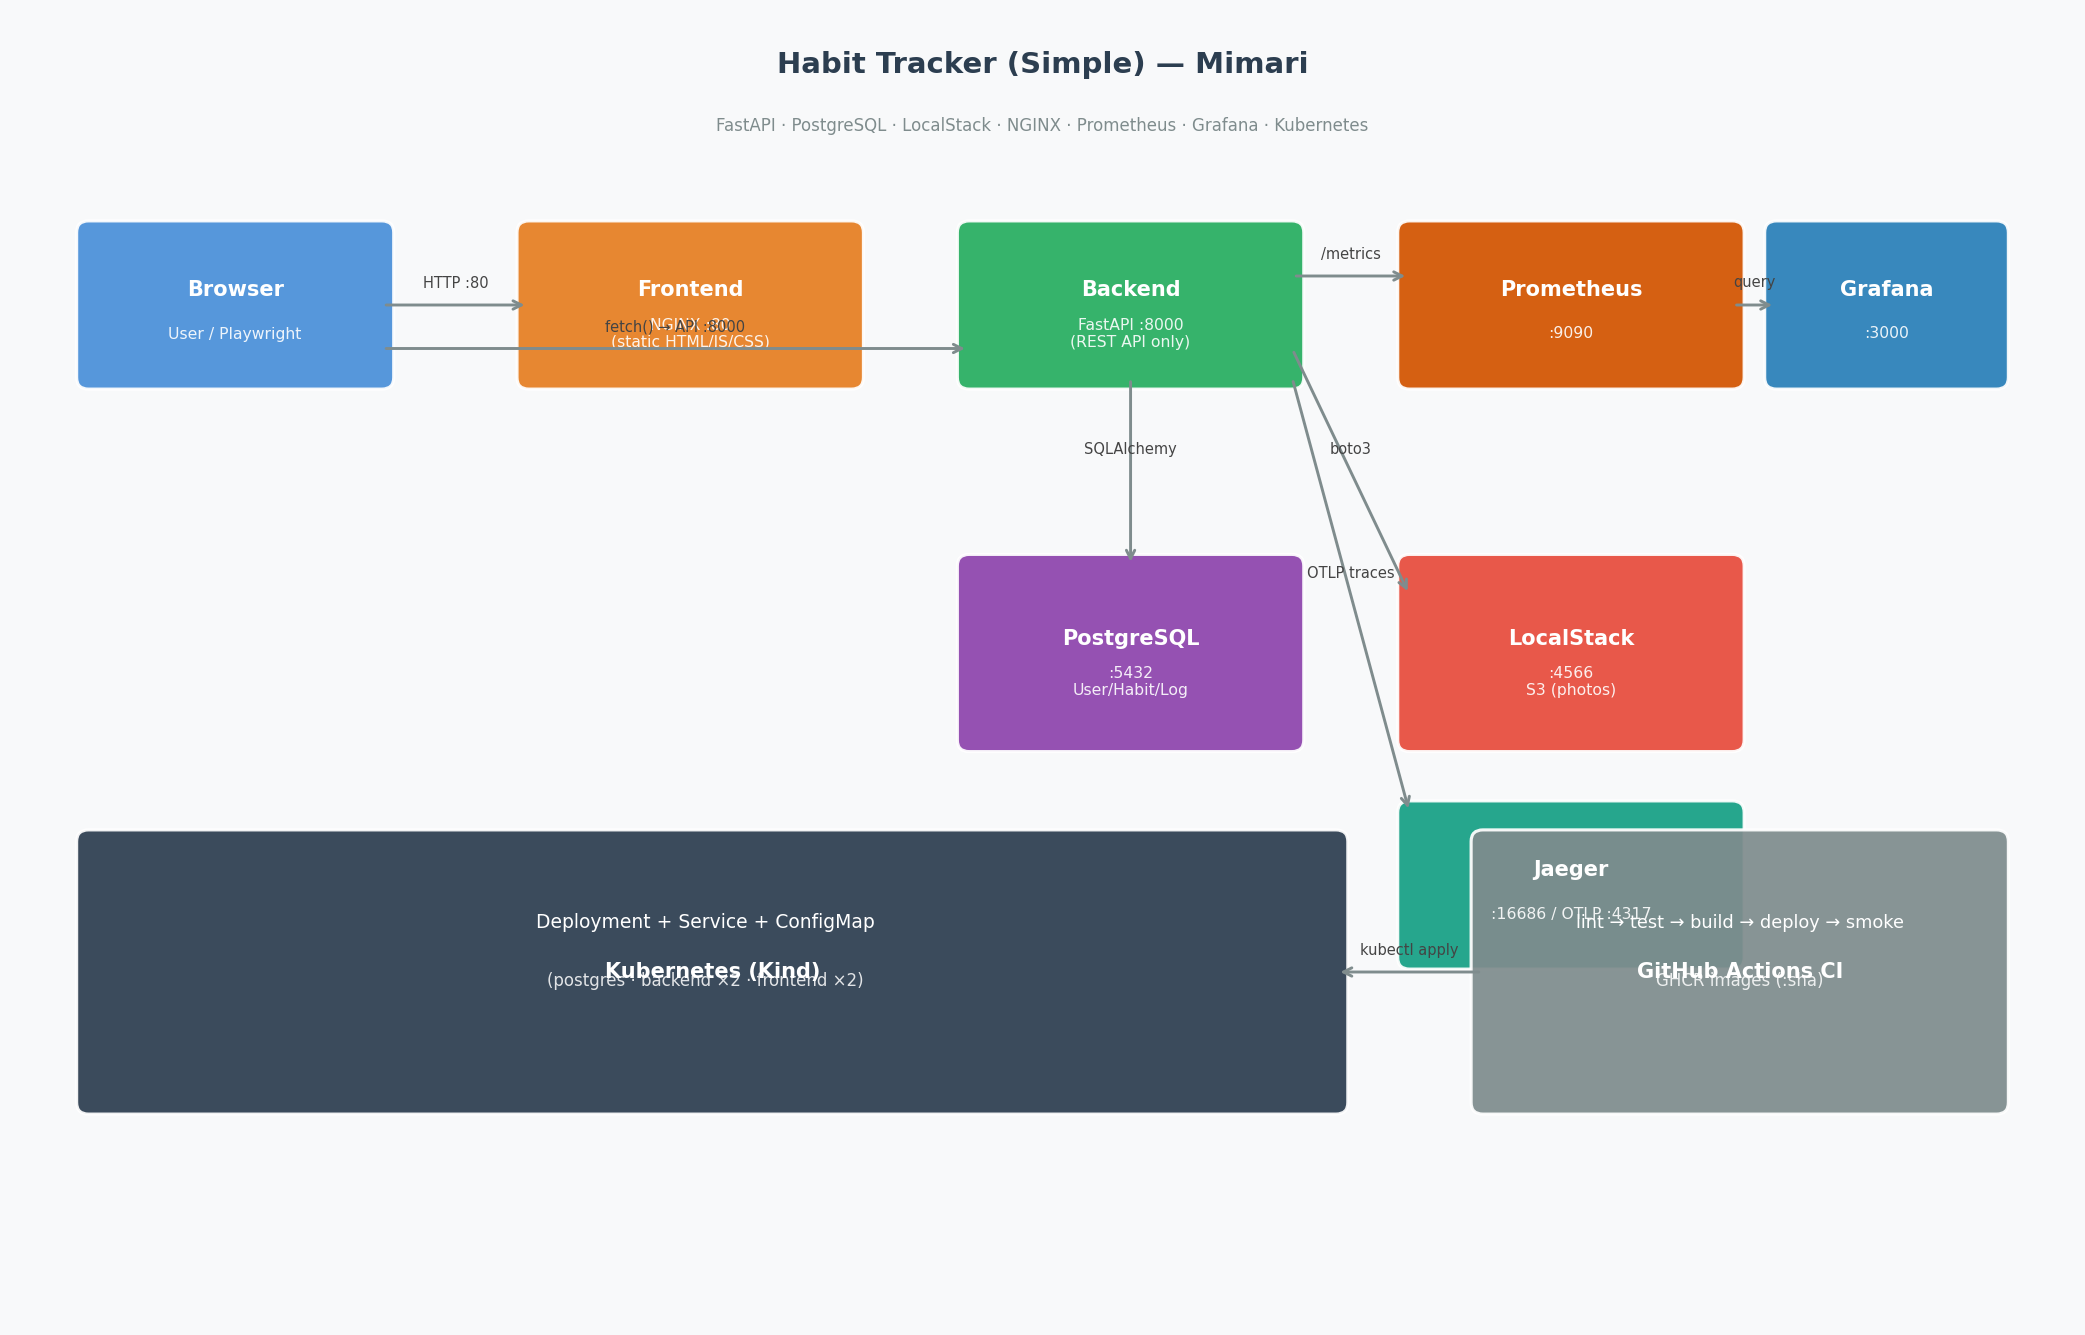
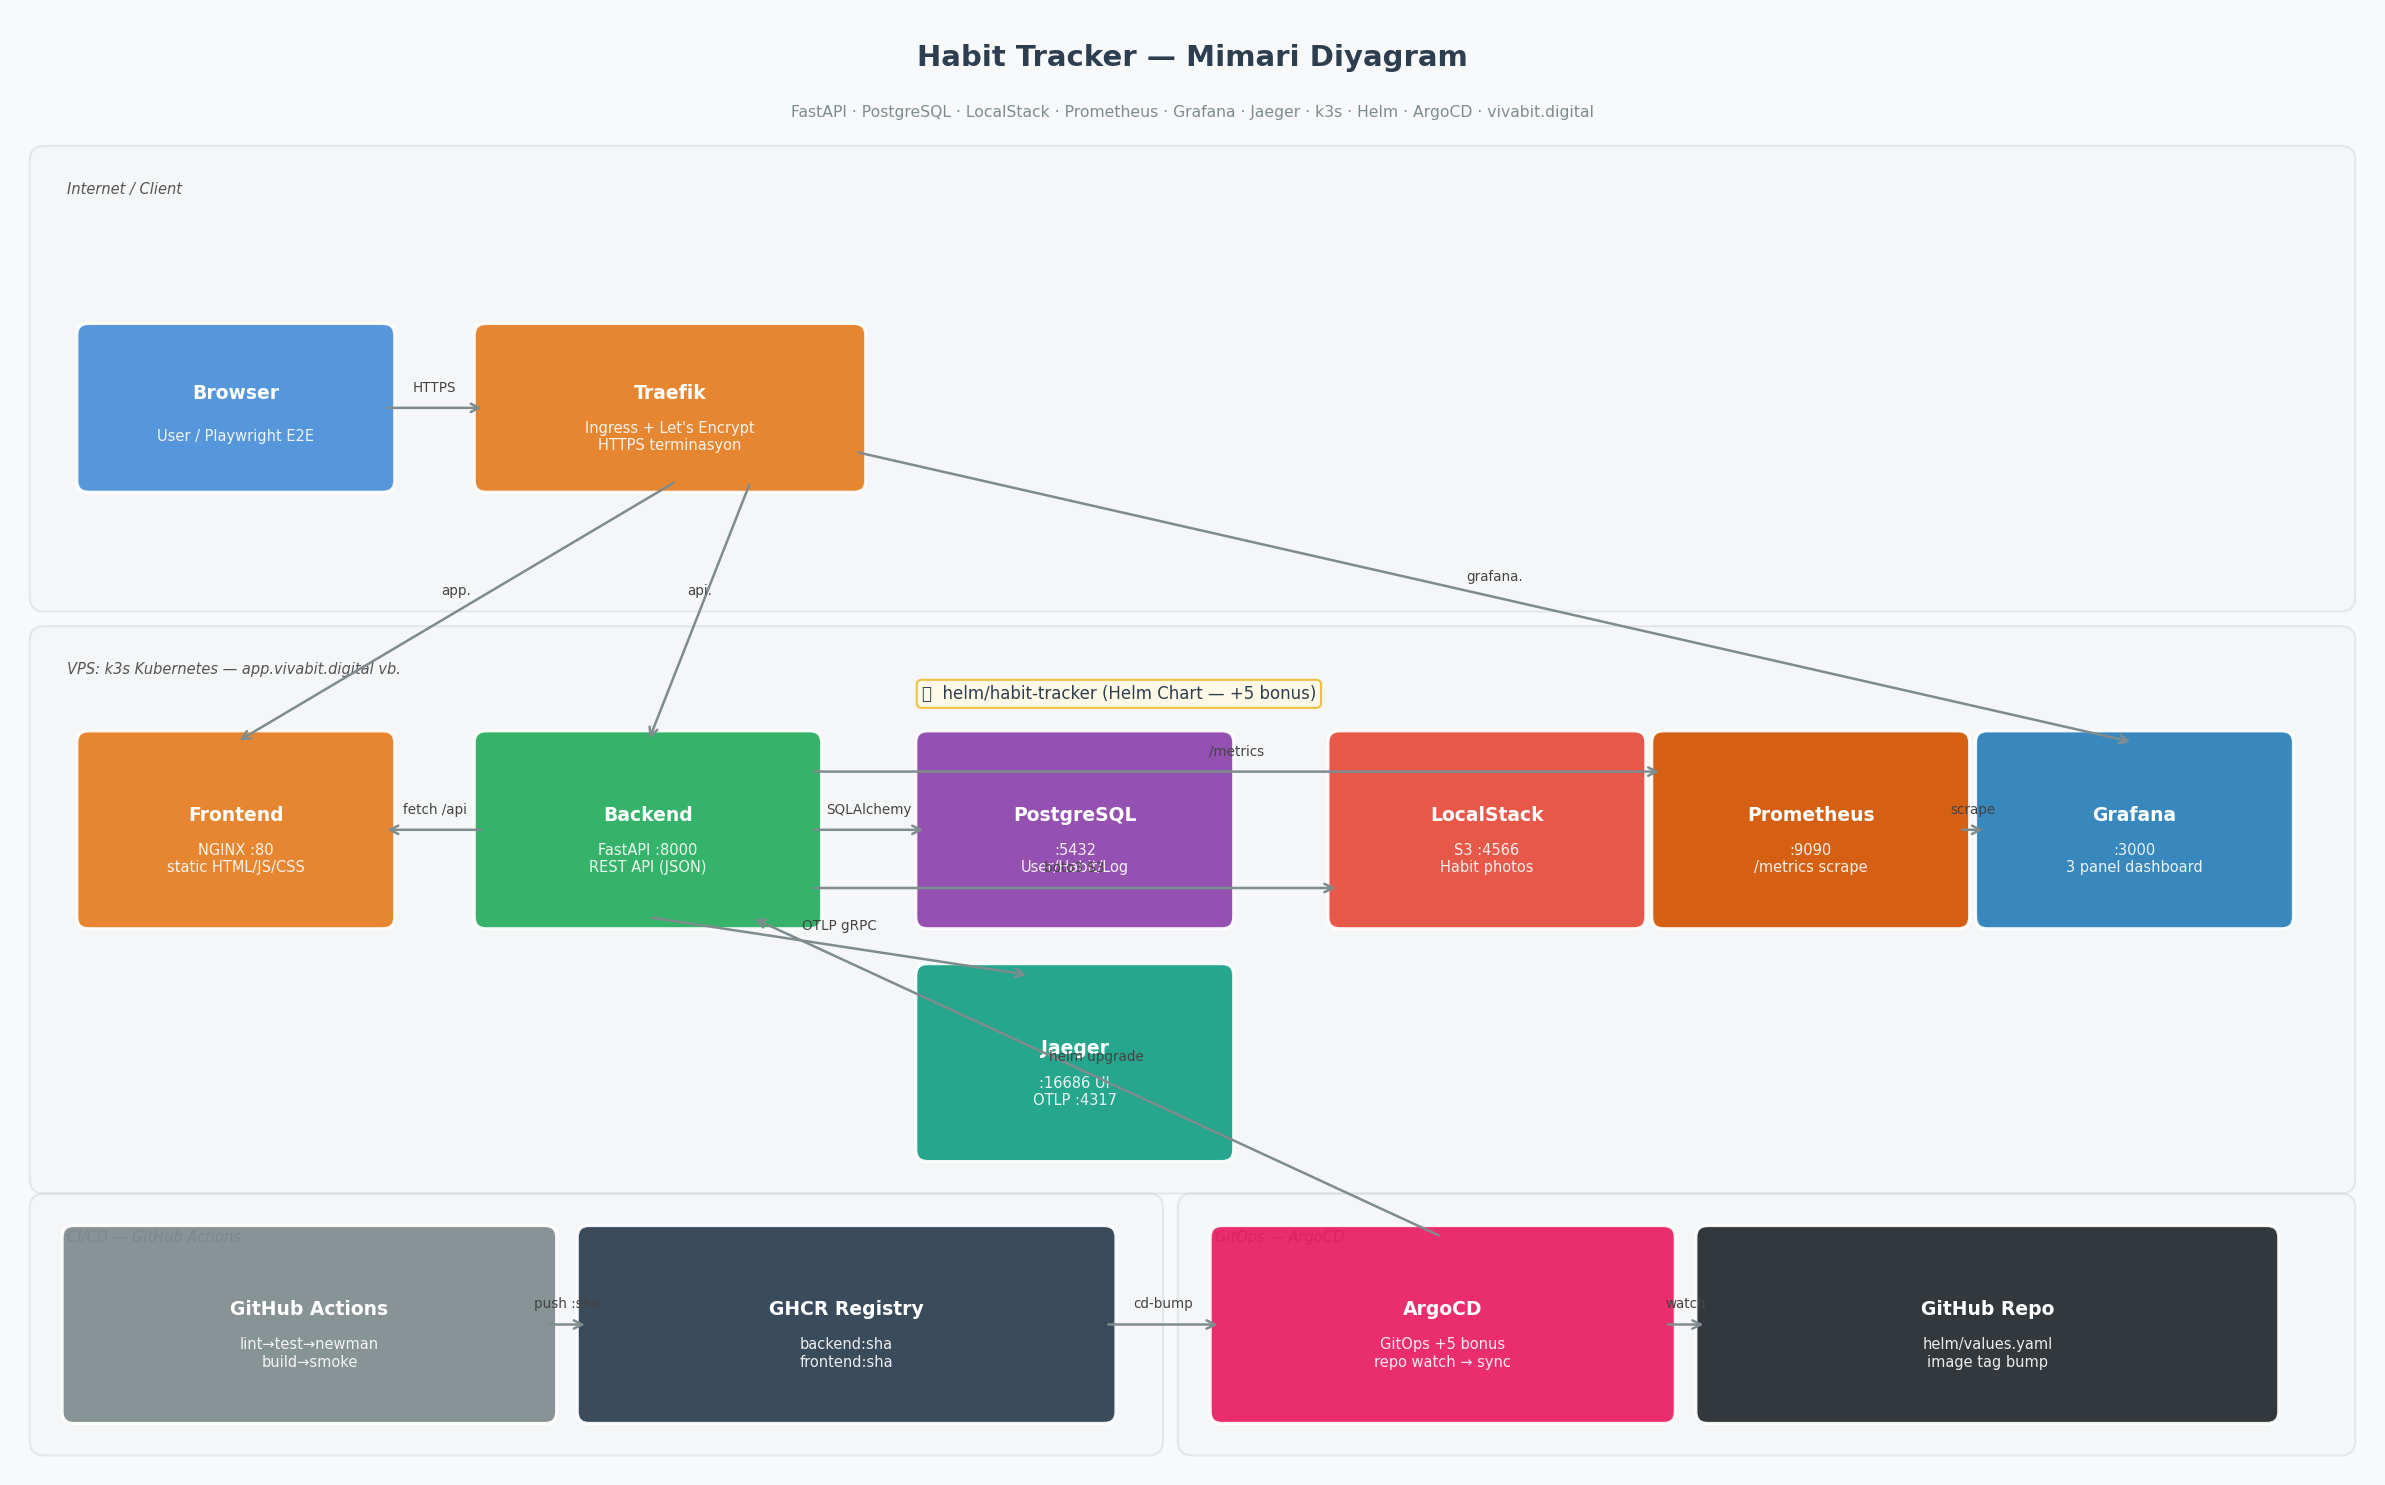
docs: update architecture.png and final-report.pdf with Helm/ArgoCD/vivabit.digital [skip ci]

diff --git a/docs/generate_architecture.py b/docs/generate_architecture.py
@@ -1,4 +1,4 @@
-"""docs/architecture.png üretir — sade mimari diyagramı."""
+"""docs/architecture.png üretir — güncel mimari (Helm + ArgoCD + VPS)."""
 import os
 import matplotlib
 matplotlib.use('Agg')
@@ -15,83 +15,107 @@ def box(ax, x, y, w, h, label, sub='', color='#3498DB'):
     cx, cy = x + w / 2, y + h / 2
     if sub:
         ax.text(cx, cy + 0.10, label, ha='center', va='center',
-                fontsize=10, fontweight='bold', color='white', zorder=4)
+                fontsize=9, fontweight='bold', color='white', zorder=4)
         ax.text(cx, cy - 0.20, sub, ha='center', va='center',
-                fontsize=7.5, color='white', alpha=0.9, zorder=4)
+                fontsize=7, color='white', alpha=0.9, zorder=4)
     else:
         ax.text(cx, cy, label, ha='center', va='center',
-                fontsize=10, fontweight='bold', color='white', zorder=4)
+                fontsize=9, fontweight='bold', color='white', zorder=4)
 
 
 def arrow(ax, x1, y1, x2, y2, label=''):
     ax.annotate('', xy=(x2, y2), xytext=(x1, y1),
-                arrowprops=dict(arrowstyle='->', color='#7F8C8D', lw=1.4),
+                arrowprops=dict(arrowstyle='->', color='#7F8C8D', lw=1.2),
                 zorder=5)
     if label:
-        ax.text((x1 + x2) / 2, (y1 + y2) / 2 + 0.10, label,
-                ha='center', va='bottom', fontsize=7, color='#444', zorder=6)
+        ax.text((x1 + x2) / 2, (y1 + y2) / 2 + 0.09, label,
+                ha='center', va='bottom', fontsize=6.5, color='#444', zorder=6)
 
 
-fig, ax = plt.subplots(figsize=(14, 9))
-ax.set_xlim(0, 14)
-ax.set_ylim(0, 9)
+def section(ax, x, y, w, h, label, color='#ECF0F1'):
+    rect = FancyBboxPatch((x, y), w, h,
+                          boxstyle="round,pad=0.1",
+                          facecolor=color, edgecolor='#BDC3C7',
+                          linewidth=1, alpha=0.3, zorder=1)
+    ax.add_patch(rect)
+    ax.text(x + 0.15, y + h - 0.15, label, ha='left', va='top',
+            fontsize=7, color='#555', style='italic', zorder=2)
+
+
+fig, ax = plt.subplots(figsize=(16, 10))
+ax.set_xlim(0, 16)
+ax.set_ylim(0, 10)
 ax.axis('off')
 ax.set_facecolor('#f8f9fa')
 fig.patch.set_facecolor('#f8f9fa')
 
-ax.text(7, 8.6, 'Habit Tracker (Simple) — Mimari',
+# Title
+ax.text(8, 9.65, 'Habit Tracker — Mimari Diyagram',
         ha='center', fontsize=14, fontweight='bold', color='#2C3E50')
-ax.text(7, 8.2, 'FastAPI · PostgreSQL · LocalStack · NGINX · Prometheus · Grafana · Kubernetes',
-        ha='center', fontsize=8, color='#7F8C8D')
+ax.text(8, 9.3, 'FastAPI · PostgreSQL · LocalStack · Prometheus · Grafana · Jaeger · k3s · Helm · ArgoCD · vivabit.digital',
+        ha='center', fontsize=7.5, color='#7F8C8D')
 
-# Browser
-box(ax, 0.5, 6.5, 2.0, 1.0, 'Browser', 'User / Playwright', '#4A90D9')
+# ── Sections ──────────────────────────────────────────────────────
+section(ax, 0.2, 6.0, 15.6, 3.0, 'Internet / Client')
+section(ax, 0.2, 2.0, 15.6, 3.7, 'VPS: k3s Kubernetes — app.vivabit.digital vb.')
+section(ax, 0.2, 0.2, 7.5, 1.6, 'CI/CD — GitHub Actions')
+section(ax, 8.0, 0.2, 7.8, 1.6, 'GitOps — ArgoCD')
 
-# Frontend (NGINX)
-box(ax, 3.5, 6.5, 2.2, 1.0, 'Frontend', 'NGINX :80\n(static HTML/JS/CSS)', '#E67E22')
+# ── Internet layer ────────────────────────────────────────────────
+box(ax, 0.5, 6.8, 2.0, 1.0, 'Browser', 'User / Playwright E2E', '#4A90D9')
+box(ax, 3.2, 6.8, 2.5, 1.0, 'Traefik', 'Ingress + Let\'s Encrypt\nHTTPS terminasyon', '#E67E22')
 
-# Backend (FastAPI)
-box(ax, 6.5, 6.5, 2.2, 1.0, 'Backend', 'FastAPI :8000\n(REST API only)', '#27AE60')
+# ── K8s layer ─────────────────────────────────────────────────────
+box(ax, 0.5, 3.8, 2.0, 1.2, 'Frontend', 'NGINX :80\nstatic HTML/JS/CSS', '#E67E22')
+box(ax, 3.2, 3.8, 2.2, 1.2, 'Backend', 'FastAPI :8000\nREST API (JSON)', '#27AE60')
+box(ax, 6.2, 3.8, 2.0, 1.2, 'PostgreSQL', ':5432\nUser/Habit/Log', '#8E44AD')
+box(ax, 9.0, 3.8, 2.0, 1.2, 'LocalStack', 'S3 :4566\nHabit photos', '#E74C3C')
+box(ax, 11.2, 3.8, 2.0, 1.2, 'Prometheus', ':9090\n/metrics scrape', '#D35400')
+box(ax, 13.4, 3.8, 2.0, 1.2, 'Grafana', ':3000\n3 panel dashboard', '#2980B9')
+box(ax, 6.2, 2.2, 2.0, 1.2, 'Jaeger', ':16686 UI\nOTLP :4317', '#16A085')
 
-# Postgres
-box(ax, 6.5, 4.0, 2.2, 1.2, 'PostgreSQL', ':5432\nUser/Habit/Log', '#8E44AD')
+# Helm chart label
+ax.text(7.5, 5.3, '⎈  helm/habit-tracker (Helm Chart — +5 bonus)',
+        ha='center', fontsize=8, color='#2C3E50',
+        bbox=dict(boxstyle='round,pad=0.3', facecolor='#FEF9E7', edgecolor='#F0C040'))
 
-# LocalStack
-box(ax, 9.5, 4.0, 2.2, 1.2, 'LocalStack', ':4566\nS3 (photos)', '#E74C3C')
+# ── CI/CD ─────────────────────────────────────────────────────────
+box(ax, 0.4, 0.4, 3.2, 1.2, 'GitHub Actions', 'lint→test→newman\nbuild→smoke', '#7F8C8D')
+box(ax, 3.9, 0.4, 3.5, 1.2, 'GHCR Registry', 'backend:sha\nfrontend:sha', '#2C3E50')
 
-# Prometheus
-box(ax, 9.5, 6.5, 2.2, 1.0, 'Prometheus', ':9090', '#D35400')
+# ── ArgoCD ───────────────────────────────────────────────────────
+box(ax, 8.2, 0.4, 3.0, 1.2, 'ArgoCD', 'GitOps +5 bonus\nrepo watch → sync', '#E91E63')
+box(ax, 11.5, 0.4, 3.8, 1.2, 'GitHub Repo', 'helm/values.yaml\nimage tag bump', '#24292E')
 
-# Grafana
-box(ax, 12.0, 6.5, 1.5, 1.0, 'Grafana', ':3000', '#2980B9')
-
-# Jaeger
-box(ax, 9.5, 2.5, 2.2, 1.0, 'Jaeger', ':16686 / OTLP :4317', '#16A085')
-
-# K8s box
-box(ax, 0.5, 1.5, 8.5, 1.8, 'Kubernetes (Kind)', '', '#2C3E50')
-ax.text(4.7, 2.7, 'Deployment + Service + ConfigMap',
-        ha='center', fontsize=9, color='white')
-ax.text(4.7, 2.3, '(postgres · backend ×2 · frontend ×2)',
-        ha='center', fontsize=8, color='white', alpha=0.85)
-
-# CI/CD
-box(ax, 10.0, 1.5, 3.5, 1.8, 'GitHub Actions CI', '', '#7F8C8D')
-ax.text(11.75, 2.7, 'lint → test → build → deploy → smoke',
-        ha='center', fontsize=8.5, color='white')
-ax.text(11.75, 2.3, 'GHCR images (:sha)', ha='center', fontsize=8, color='white', alpha=0.85)
-
-# Arrows
-arrow(ax, 2.5, 7.0, 3.5, 7.0, 'HTTP :80')
-arrow(ax, 2.5, 6.7, 6.5, 6.7, 'fetch() → API :8000')
-arrow(ax, 7.6, 6.5, 7.6, 5.2, 'SQLAlchemy')
-arrow(ax, 8.7, 6.7, 9.5, 5.0, 'boto3')
-arrow(ax, 8.7, 7.2, 9.5, 7.2, '/metrics')
-arrow(ax, 11.7, 7.0, 12.0, 7.0, 'query')
-arrow(ax, 8.7, 6.5, 9.5, 3.5, 'OTLP traces')
-
-# CI → K8s
-arrow(ax, 10.0, 2.4, 9.0, 2.4, 'kubectl apply')
+# ── Arrows ────────────────────────────────────────────────────────
+# Browser → Traefik
+arrow(ax, 2.5, 7.3, 3.2, 7.3, 'HTTPS')
+# Traefik → Frontend
+arrow(ax, 4.5, 6.8, 1.5, 5.0, 'app.')
+# Traefik → Backend
+arrow(ax, 5.0, 6.8, 4.3, 5.0, 'api.')
+# Traefik → Grafana
+arrow(ax, 5.7, 7.0, 14.4, 5.0, 'grafana.')
+# Frontend → Backend
+arrow(ax, 3.2, 4.4, 2.5, 4.4, 'fetch /api')
+# Backend → Postgres
+arrow(ax, 5.4, 4.4, 6.2, 4.4, 'SQLAlchemy')
+# Backend → LocalStack
+arrow(ax, 5.4, 4.0, 9.0, 4.0, 'boto3 S3')
+# Backend → Prometheus
+arrow(ax, 5.4, 4.8, 11.2, 4.8, '/metrics')
+# Backend → Jaeger
+arrow(ax, 4.3, 3.8, 6.9, 3.4, 'OTLP gRPC')
+# Prometheus → Grafana
+arrow(ax, 13.2, 4.4, 13.4, 4.4, 'scrape')
+# CI → GHCR
+arrow(ax, 3.6, 1.0, 3.9, 1.0, 'push :sha')
+# GHCR → ArgoCD (tag bump)
+arrow(ax, 7.4, 1.0, 8.2, 1.0, 'cd-bump')
+# ArgoCD → GitHub Repo
+arrow(ax, 11.2, 1.0, 11.5, 1.0, 'watch')
+# ArgoCD → K8s
+arrow(ax, 9.7, 1.6, 5.0, 3.8, 'helm upgrade')
 
 os.makedirs('docs', exist_ok=True)
 plt.tight_layout()